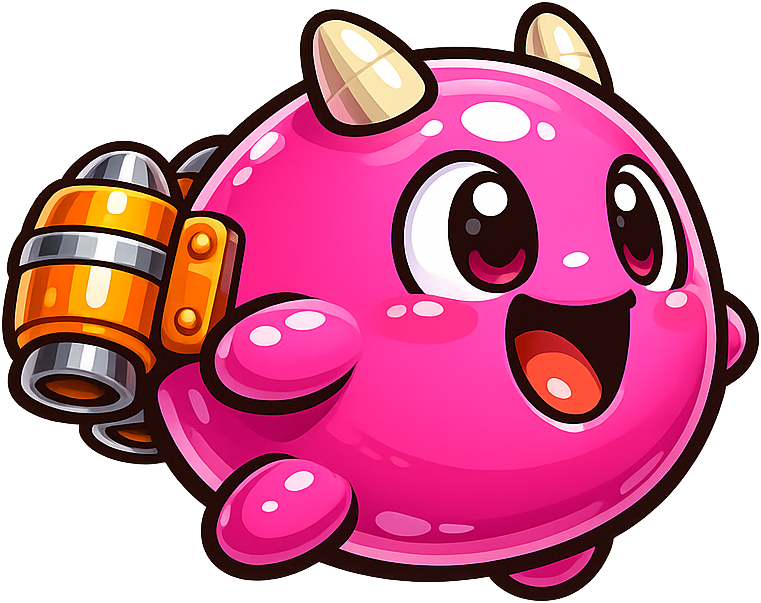
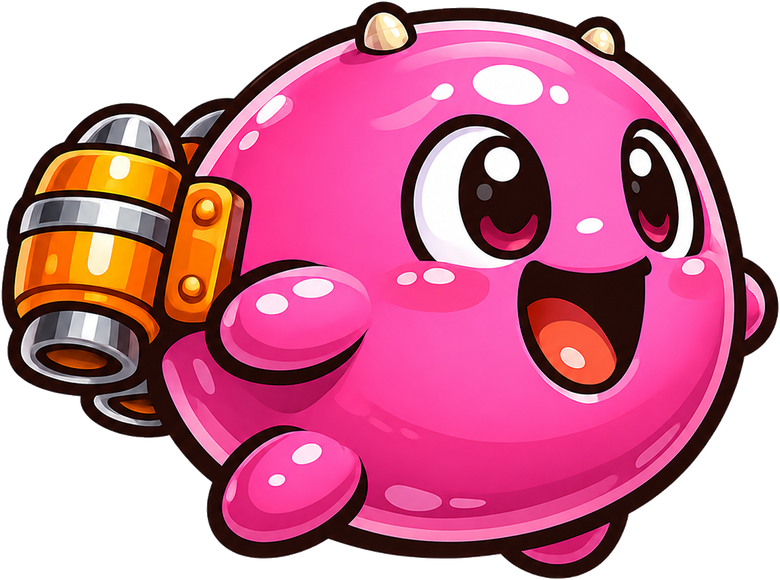
Front-end grade fixes + clean backdrop + Pogo nub-horns
Cleared all 6 UI/UX must-fixes (verified in-engine, parse gate clean):
- Header title centered clear of BACK button (all 4 sub-screens)
- CardNameBig -> chocolate w/ cream halo (crisp names on Char/Arena select)
- BRAWL live card now loudest (root cause: focus-panel shadow bleeding through
  transparent panels; removed FocusBorder shadow + opaque NameStrip)
- Backdrop doubling gone: clean character-free title_bg.png (reimported); only
  the 6 code bobbers over it
- Fullscreen toggle track now visible in both states (ToyToggle OFF_FILL cream)
- Options panel + CharacterSelect settings tray opacity 0.85/0.6 -> 0.93
Polish: RANDOM card rainbow plate + 2-line name band (no clip/artifact), mode
monograms chocolate, BACK button 64px safe-area, confirmed options accent bar.

Art (paste-edit pipeline): Pogo regenerated with tiny bone NUB horns via ChatGPT
clipboard-paste edit (body pixel-preserved; art-director fidelity fix). Clean
title backdrop generated (no characters). Vex corkscrew + squash poses deferred.

Motion captures for the UI/UX motion re-grade in tools/out/motion_*.png.

Claude-Session: https://claude.ai/code/session_0143Vva11B1Y4nN43UxCZsfT

diff --git a/docs/STATUS.md b/docs/STATUS.md
@@ -74,10 +74,15 @@ pace (top fun risk — IN PROGRESS); (2) sunny-cluster visual signature; (3) del
 (+ `v1_kill_economy_at_scale.md`, `v2_kill_shape_edges.md`) → `docs/PIPELINE.md`.
 
 ## NEXT STEPS
-> **THE CORE VERSUS LOOP IS DONE; THE GAME IS ~25% BUILT.** See `docs/ROADMAP.md` for the full path to
-> a TowerFall/Duck-Game-complete product. Active phase: **Phase 1 — front-end shell + match-config +
-> mode framework** (the scaffolding every character/mode/circuit hangs off). The core versus loop
-> becomes "Brawl" mode inside that shell. The polish backlog below is deferred behind the roadmap.
+> **THE CORE VERSUS LOOP IS DONE; THE GAME IS ~25-30% BUILT.** See `docs/ROADMAP.md`. Active: **Phase 1**.
+> DONE: foundation (GameConfig/GameMode/BrawlMode/Settings/ShellRoot) parity-verified; the Herd goat/ram
+> cast (6 idle sprites) live in-engine; all 6 styled screens built to the UX spec (MainMenu/ModeSelect/
+> CharacterSelect/ArenaSelect/Options/PauseMenu) + full flow, rendered-smoke-verified.
+> IN REVIEW: UI/UX + art-director grading the built screens (owner's hard gate).
+> IMMEDIATE NEXT: apply grade fixes; generate a CLEAN backdrop (current one doubles the reference art's
+> old painted blobs) + a goat-themed title/key-art; drive a full match to verify match-end REMATCH/QUIT
+> routing; then close Phase 1. THEN Phase 2 (per-character feel deltas) / Phase 3 (circuits) / Phase 4 (modes).
+> Art pass #2 (goat squash + horns-forward super-charge poses) is queued.
 
 **OPEN OWNER DECISION:** `match_target_kills` kept at 10 (owner-set); QA recommends 7-8 for a tighter
 ~3-min match (10 = ~4.5min/18-21 stages due to the -1 self-fall score volatility). Will apply if the
